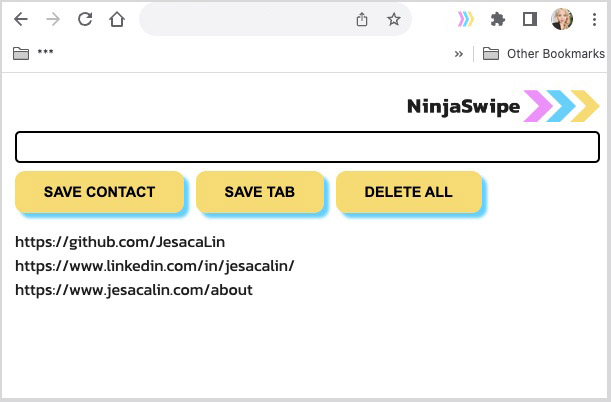
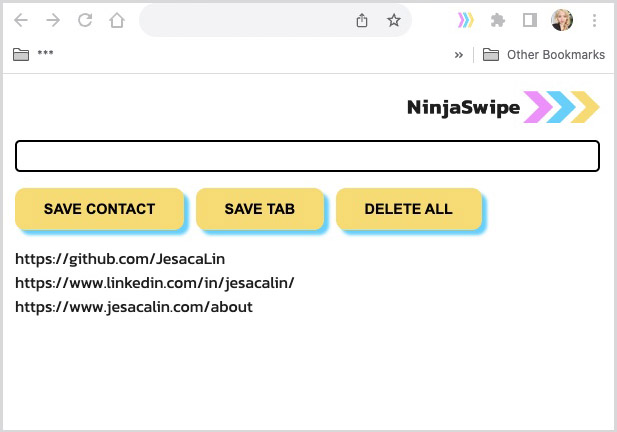
increased spacing between UI elements

diff --git a/style.css b/style.css
@@ -15,7 +15,7 @@ input {
 }
 
 button {
-  margin: 0.5rem 0.5rem 0 0;
+  margin: 1rem 0.5rem 0 0;
   background-color: #fbda61;
   font-size: 0.9rem;
   padding: 0.8rem 1.8rem;
@@ -46,5 +46,5 @@ li a {
 img {
   max-width: 33%;
   float: right;
-  margin-bottom: 0.5rem;
+  margin-bottom: 1rem;
 }
